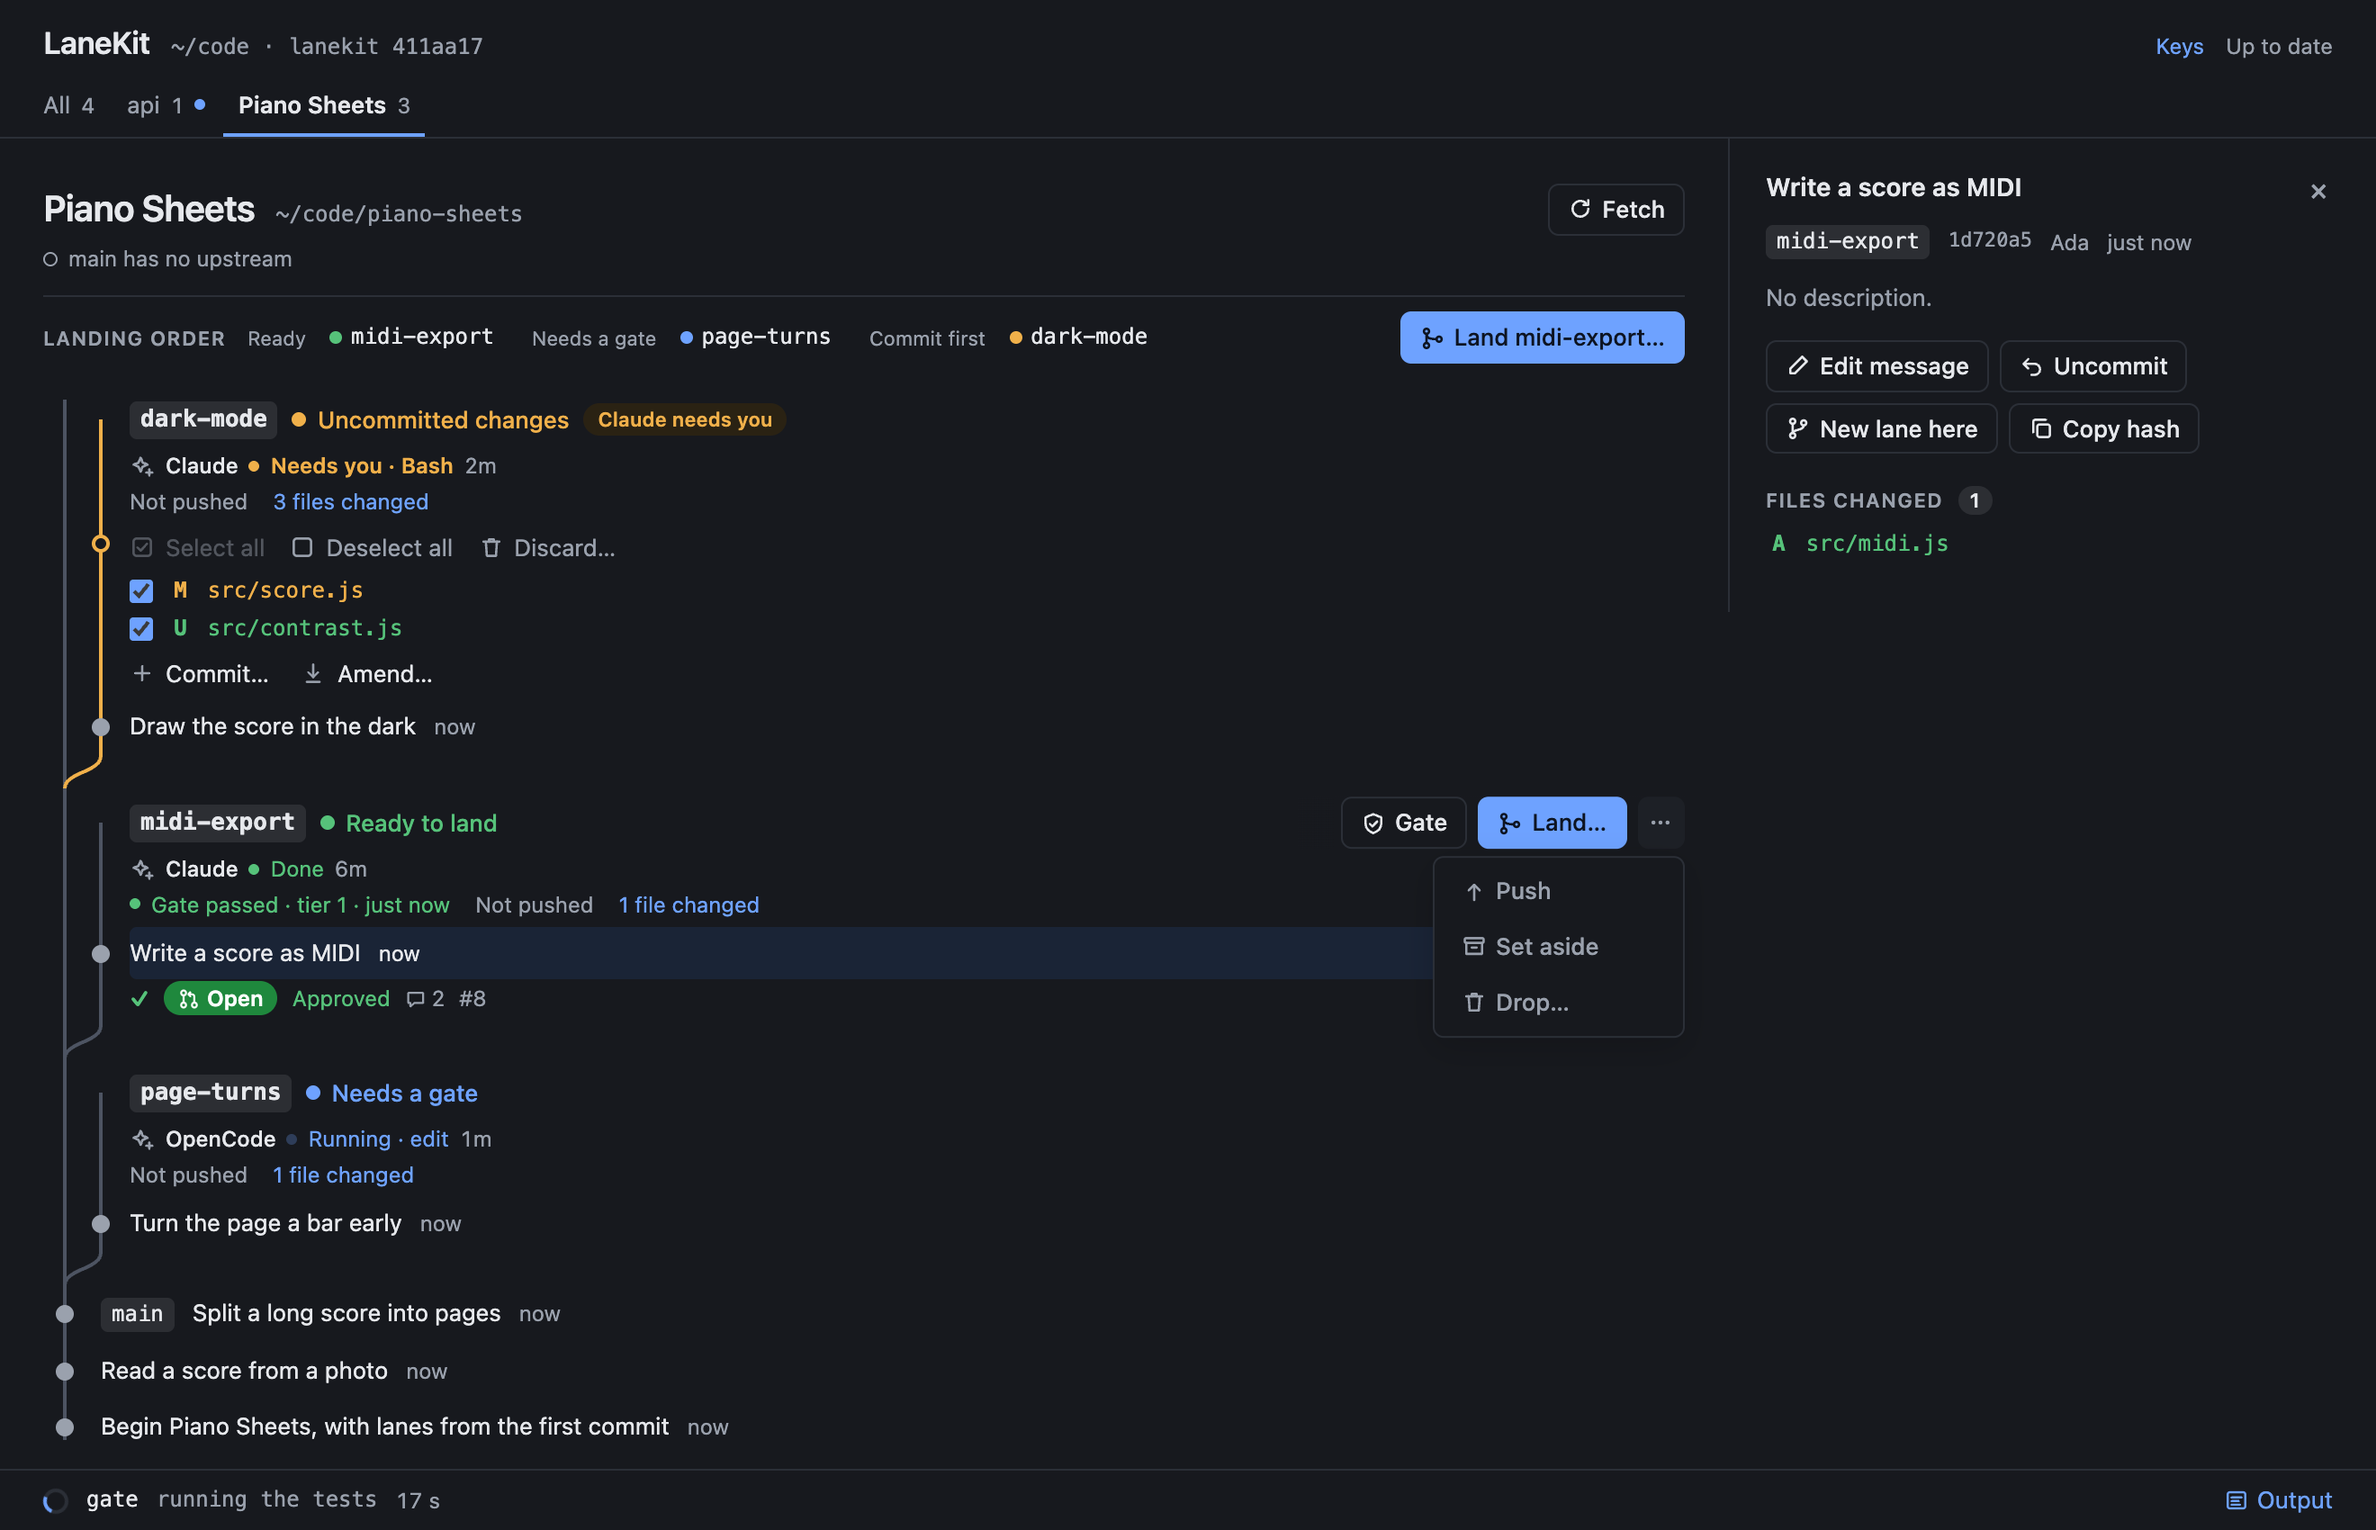
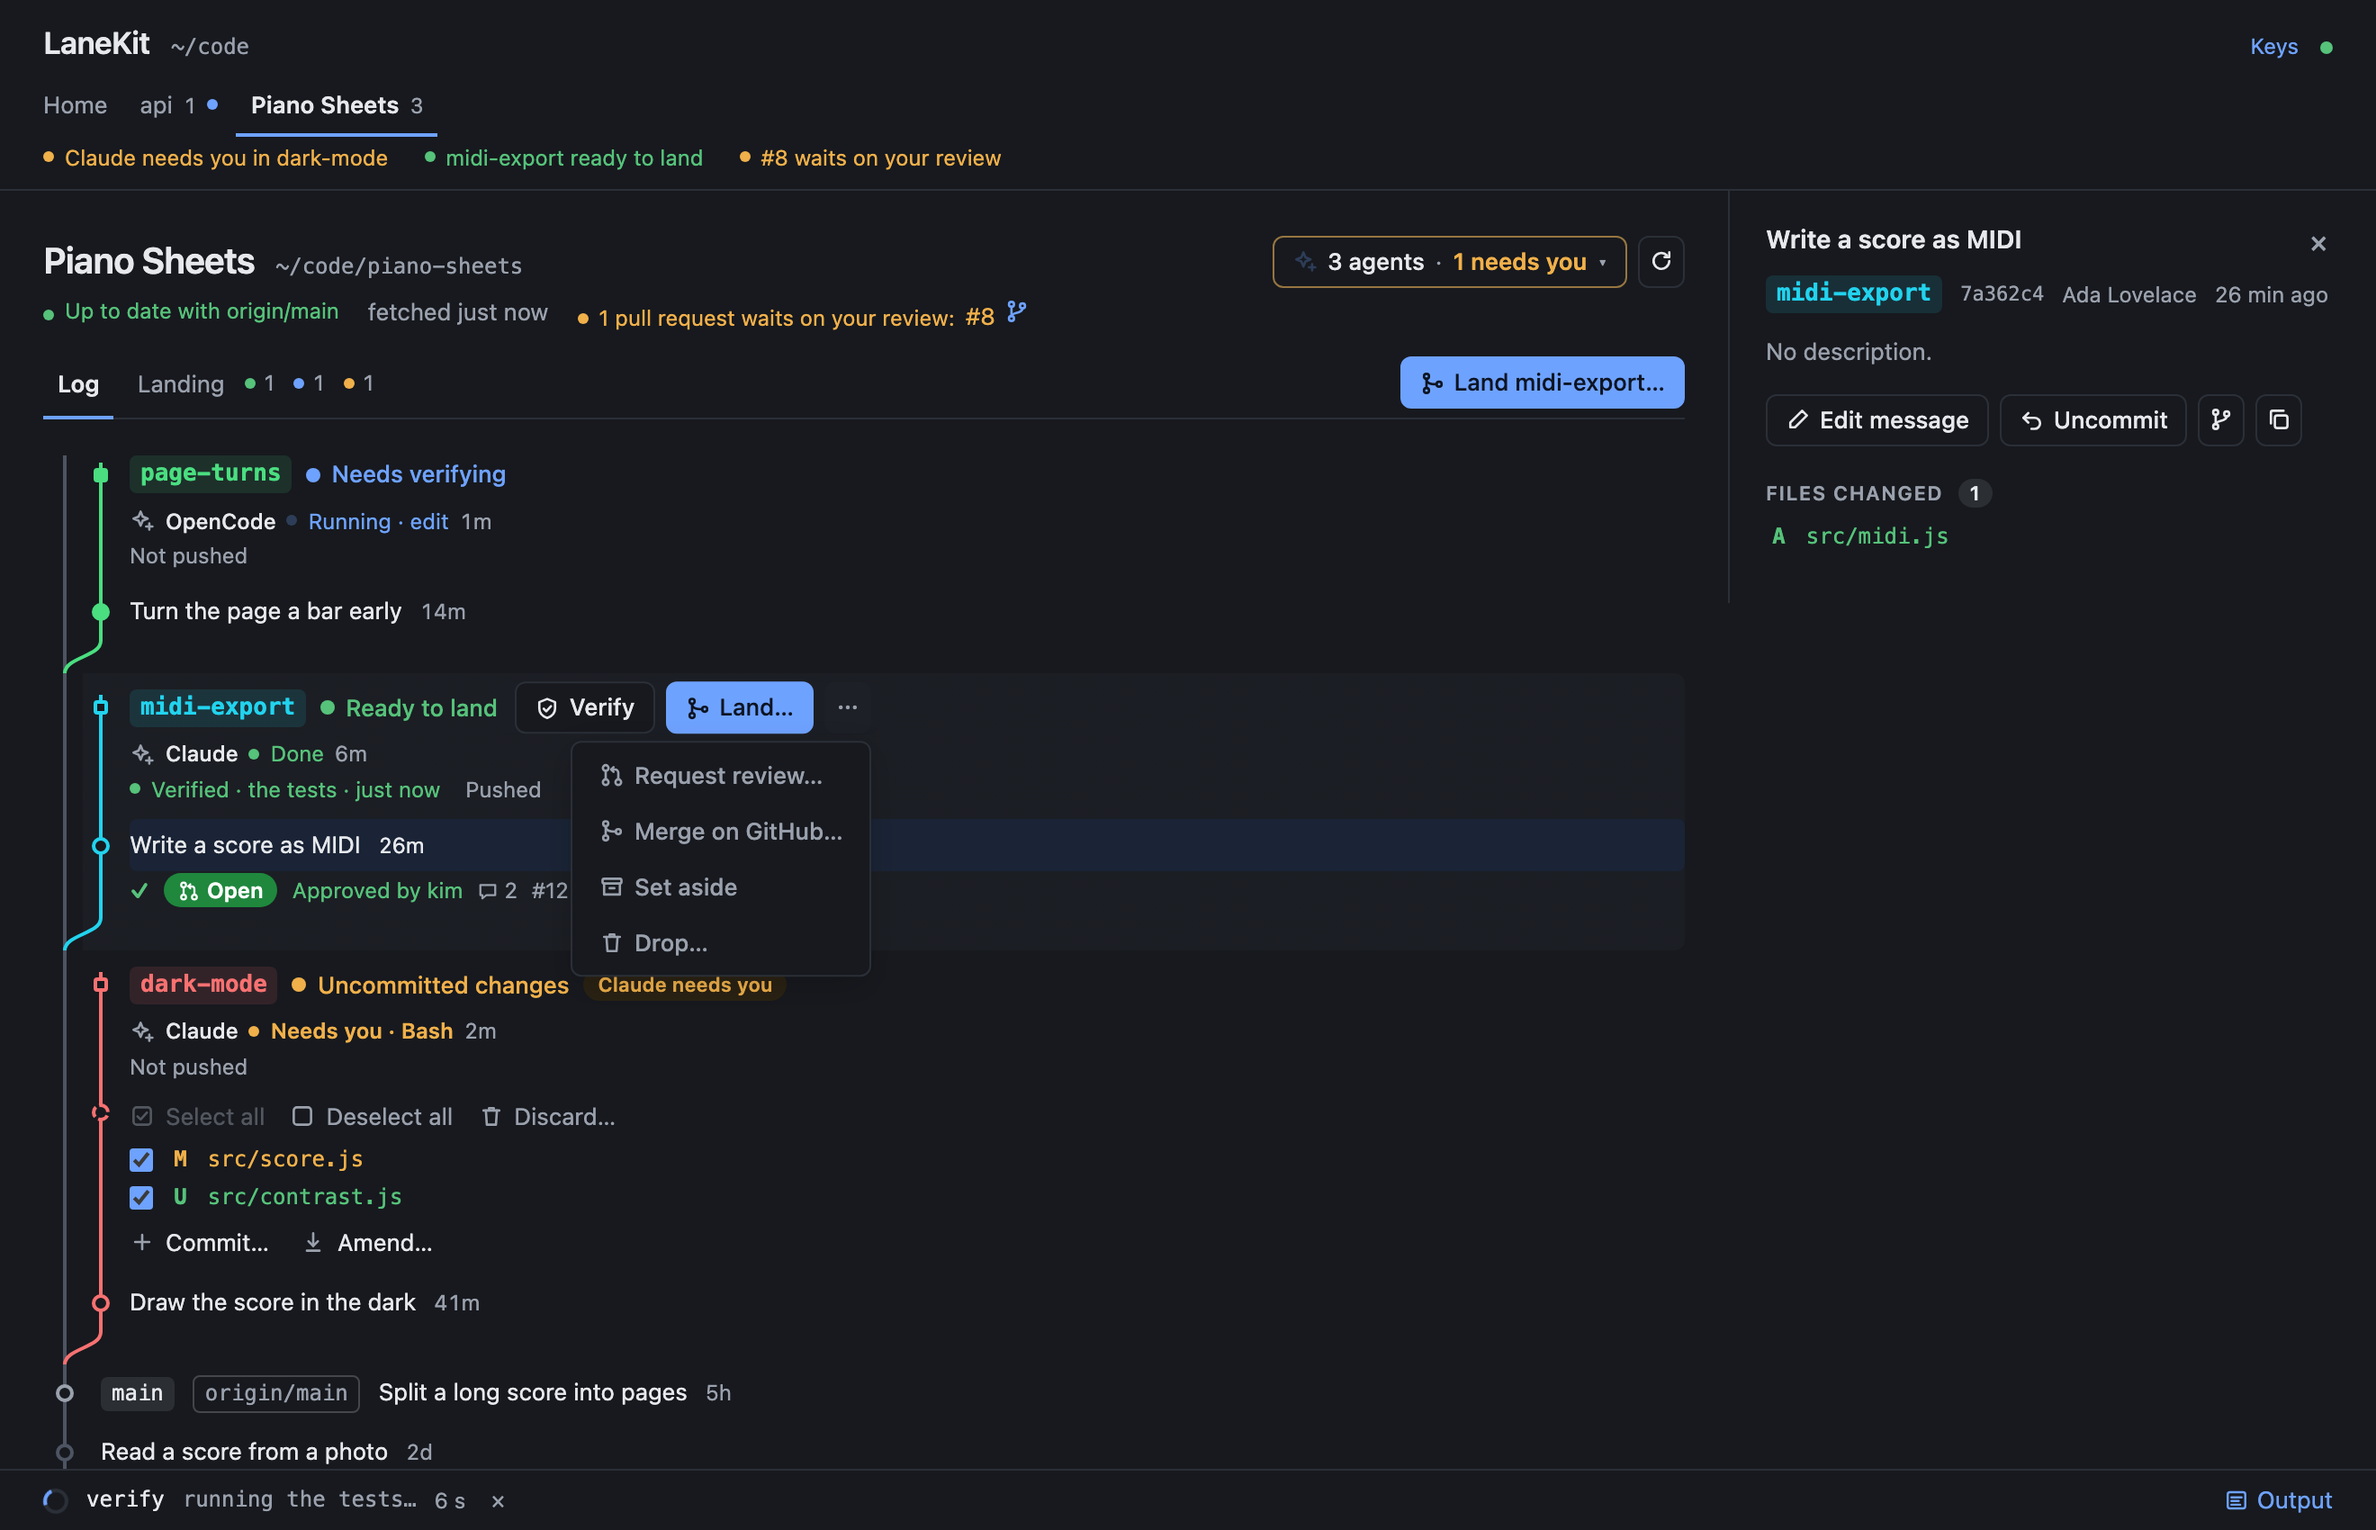
Retake the README's pictures, and say verify where gate was left
The README's pictures showed the page of weeks ago: the landing order as
a line over the log, You are here, Goto, All, and Gate (the owner,
21 Oct: do it). The page in a browser and in the editor's side bar, light
and dark, are taken again on the same Piano Sheets, as the page is now:
what waits on you under the switcher, the agents as one button, the Log
and Landing tabs, midi-export verified and ready to land with its ⋯ open,
and api being verified in the command bar. Their alt texts say what each
shows; the diagram's midi-export says VERIFIED, as verify does.

The command bar still said gate for a verification, and so did a few
words of lanekit's: the queue's reason a lane cannot land, a pull
request into another branch, a review lane pulled, and the results
folder's error. They say verify now.

Use case 77; page 13.

diff --git a/web/lanes.js b/web/lanes.js
@@ -1995,7 +1995,7 @@ const inlineDetails = (repo, commit) => (compact() && selected?.sha && isSelecte
 const VERB_WORDS = { gate: 'Verifying', land: 'Landing', rebase: 'Rebasing', push: 'Pushing', pr: 'Opening a pull request', sweep: 'Sweeping', new: 'Making a lane',
     pull: 'Pulling', 'push-main': 'Pushing main', fetch: 'Fetching', review: 'Reviewing', commit: 'Committing', uncommit: 'Uncommitting', discard: 'Discarding', resolve: 'Marking resolved', adopt: 'Giving it lanes' }
 /** A job's command as a person would type it: lane …, gate, git …, without the node and the path in front. */
-const typed = (command) => String(command ?? '').replace(/^node (?:\S*\/)?dev\/lane\.mjs /, 'lane ').replace(/^node (?:\S*\/)?dev\/gate\.mjs\b/, 'gate')
+const typed = (command) => String(command ?? '').replace(/^node (?:\S*\/)?dev\/lane\.mjs /, 'lane ').replace(/^node (?:\S*\/)?dev\/gate\.mjs\b/, 'verify')
     .replace(/^node (?:\S*\/)?bin\/adopt\.mjs\b/, 'lane adopt')
 const cancelJob = async (id) => {
     try { if (!await host.cancel(id)) notice('It had begun already, so it was not cancelled.') } catch { notice('LaneKit did not answer; nothing was cancelled.') }

diff --git a/README.md b/README.md
@@ -11,7 +11,7 @@ process, a file or a database row, and each lands back on `main` only once its t
 
 <picture>
   <source media="(prefers-color-scheme: dark)" srcset="docs/images/lanes-dark.png">
-  <img alt="The LaneKit page on Piano Sheets, chosen in the switcher along the top beside All and api, whose dot says a gate is running there. It is in two halves, as Sapling's Interactive Smartlog is. On the left, the landing order in groups (Ready: midi-export; Needs a gate: page-turns; Commit first: dark-mode) with Land midi-export…, then main as a line of dots and three lanes, each on a line of its own that curves into main where it started. dark-mode's line is amber and it says Claude needs you: Claude asks to run Bash, above the lane's uncommitted files, ticked, with Commit… and Amend under them. midi-export is ready to land, Claude done in it, with its pull request's badges under its newest commit, which is chosen; the pointer on it shows Gate and Land…, solid as the next step, and its ⋯ is open on Push, Set aside and Drop…. page-turns needs a gate, with OpenCode running an edit in it. On the right, the chosen commit's details: its words, its lane, hash, author and age, Edit message, Uncommit, New lane here, Copy hash, and its files. Along the bottom, the command bar: api's gate running the tests, with its clock." src="docs/images/lanes-light.png">
+  <img alt="The LaneKit page on Piano Sheets, chosen in the switcher along the top beside Home and api, whose dot says something runs there; under it, a line of what waits on you: Claude needs you in dark-mode, midi-export ready to land, #8 waits on your review. Piano Sheets' header says it is up to date with origin/main and has 3 agents, 1 needing you; under it the Log and Landing tabs, Landing counting a lane in each group, and Land midi-export… at the row's end. The log, as Sapling's Interactive Smartlog draws one: main as a line of rings and three lanes, each on a line of its own in its own colour that curves into main where it started. page-turns needs verifying, OpenCode running an edit in it. midi-export is ready to land, verified with the tests, Claude done in it, its pull request open and approved under its newest commit, which is chosen; the pointer is on it, showing Verify and Land…, solid as the next step, and its ⋯ is open on Request review, Merge on GitHub, Set aside and Drop. dark-mode has uncommitted changes and Claude needs you there, asking to run Bash, above its files, ticked, with Commit… and Amend under them. On the right, the chosen commit's details: its words, its lane, hash, author and age, Edit message, Uncommit and its files. Along the bottom, the command bar: api's lane being verified, running the tests, with its clock." src="docs/images/lanes-light.png">
 </picture>
 
 <sub>`lane web`: every lane of every repository on one page, each on a line of its own that
@@ -35,7 +35,7 @@ Every lane starts from `main`, and comes back to it with a merge commit of its o
 
 <picture>
   <source media="(prefers-color-scheme: dark)" srcset="docs/images/lanes-graph-dark.svg">
-  <img alt="main as a line of commits. Two lanes start from it with lane new: midi-export, whose gate says VERIFIED and which lane land brings back as a merge commit of its own, and dark-mode, still in progress." src="docs/images/lanes-graph-light.svg">
+  <img alt="main as a line of commits. Two lanes start from it with lane new: midi-export, which verify says is VERIFIED and lane land brings back as a merge commit of its own, and dark-mode, still in progress." src="docs/images/lanes-graph-light.svg">
 </picture>
 
 ## The loop
@@ -445,7 +445,7 @@ in the picture. There its clicks drive the editor:
 
 <picture>
   <source media="(prefers-color-scheme: dark)" srcset="docs/images/lanekit-sidebar-dark.png">
-  <img alt="LaneKit in the editor's side bar, on Piano Sheets, with the switcher above it and Goto beside Fetch for the main checkout. The landing order in groups (Ready: midi-export; Needs a gate: page-turns; Commit first: dark-mode), then dark-mode marked You are here, its line amber because Claude needs you there, asking to run Bash, with its uncommitted files ticked; midi-export ready to land, Claude done in it, with its pull request's badges; and page-turns under the pointer, OpenCode running in it, offering Gate, its next step, and a ⋯ for the rest. All three curve into main. The command bar along the bottom." src="docs/images/lanekit-sidebar-light.png" width="320" align="right">
+  <img alt="LaneKit in the editor's side bar, on Piano Sheets, with the switcher above it and what waits on you under that: Claude needs you in dark-mode, midi-export ready to land, #8 waits on your review. The header's 3 agents, 1 needing you, a terminal and Fetch; the Log and Landing tabs with Land midi-export…. page-turns under the pointer, OpenCode running in it, offering Verify, its next step, over its corner, and a ⋯ for the rest; midi-export verified and ready to land, Claude done in it, with its pull request's badges; dark-mode's uncommitted files ticked, Claude needing you there to run Bash. All three curve into main. The command bar along the bottom, verifying." src="docs/images/lanekit-sidebar-light.png" width="320" align="right">
 </picture>
 
 - a commit opens as the diffs of what it changed; a lane's **Changes** opens everything it

diff --git a/docs/use-cases.md b/docs/use-cases.md
@@ -75,7 +75,7 @@ as the editor does (`test/e2e.test.mjs`, skipped where there is no Chrome).
 | 22 | Land a ready lane, then sweep it | **Land…**, **Land next**, **Sweep…**; `lane land`, `lane sweep` | web 7–9 |
 | 23 | Push main, only where the repository takes it | **Push** beside the repository's name; `lane push --main` | flow 20–22 |
 | 61 | **new** Know what the tests said: how many passed, failed, errored and were skipped, and the first five that did not pass, wherever a gate's result is shown; a file that cannot be read said once, and never deciding the gate; nothing new for a project that writes no JUnit | `./check` writes JUnit XML into `$LAB_RESULTS`; the gate, the page, the editor's notice, the `gate` tool | results 1–17, page 9 |
-| 77 | **new** Call it verifying everywhere it is said: `./<project> verify`, the agents' `verify` tool, a `verify` key in `lane.config.json`, `[verify Ns]` in its output, the skills and `/land`; `gate`, its old name, still answering as the shim, the tool and the key do (never both keys at once; `init` and `adopt` write `gate`, which an older lanekit reads too), and a shim from an older lanekit brought up to date by `lane adopt` | `./<project> verify`; the `verify` tool; `"verify"` in `lane.config.json` | adopt 5–7, mcp 1, mcp 2, results 8, results 12 |
+| 77 | **new** Call it verifying everywhere it is said: `./<project> verify`, the agents' `verify` tool, a `verify` key in `lane.config.json`, `[verify Ns]` in its output and `verify` in the command bar, the skills and `/land`; `gate`, its old name, still answering as the shim, the tool and the key do (never both keys at once; `init` and `adopt` write `gate`, which an older lanekit reads too), and a shim from an older lanekit brought up to date by `lane adopt` | `./<project> verify`; the `verify` tool; `"verify"` in `lane.config.json` | adopt 5–7, mcp 1, mcp 2, results 8, results 12, page 13 |
 
 ## Pull requests
 
@@ -178,7 +178,6 @@ as the editor does (`test/e2e.test.mjs`, skipped where there is no Chrome).
   its dashed row is looked at by hand: the press is quicker than any reading, so the page cannot be sure of drawing the
   dashed row first (what it draws from the state is tested, 60). Home's cards, the side bar and the details pane move
   too, untested.
-- The README's screenshots predate this round: they still show *You are here* and *Goto*.
 - **The tests' counts in the editor's notice** (a gate that ends while LaneKit is out of sight) are tested where the
   service hands them to the notice (results 15), not in the notice itself; JUnit from Xcode and Jest is read by the
   same rules as pytest's, `node --test`'s and Go's, and has no fixture of its own.
